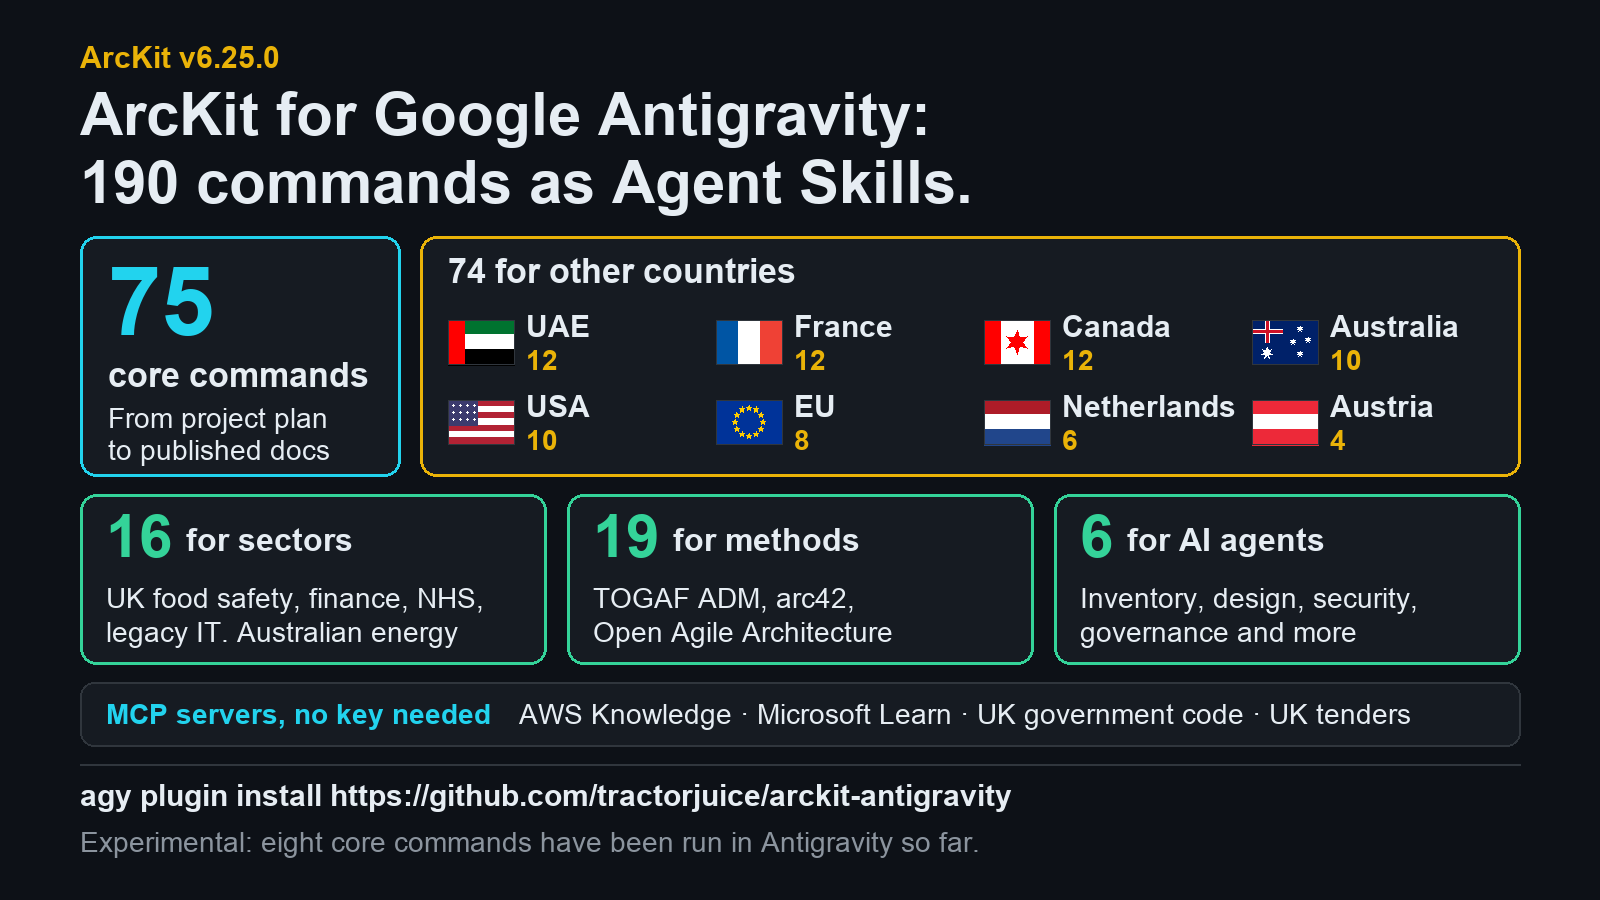
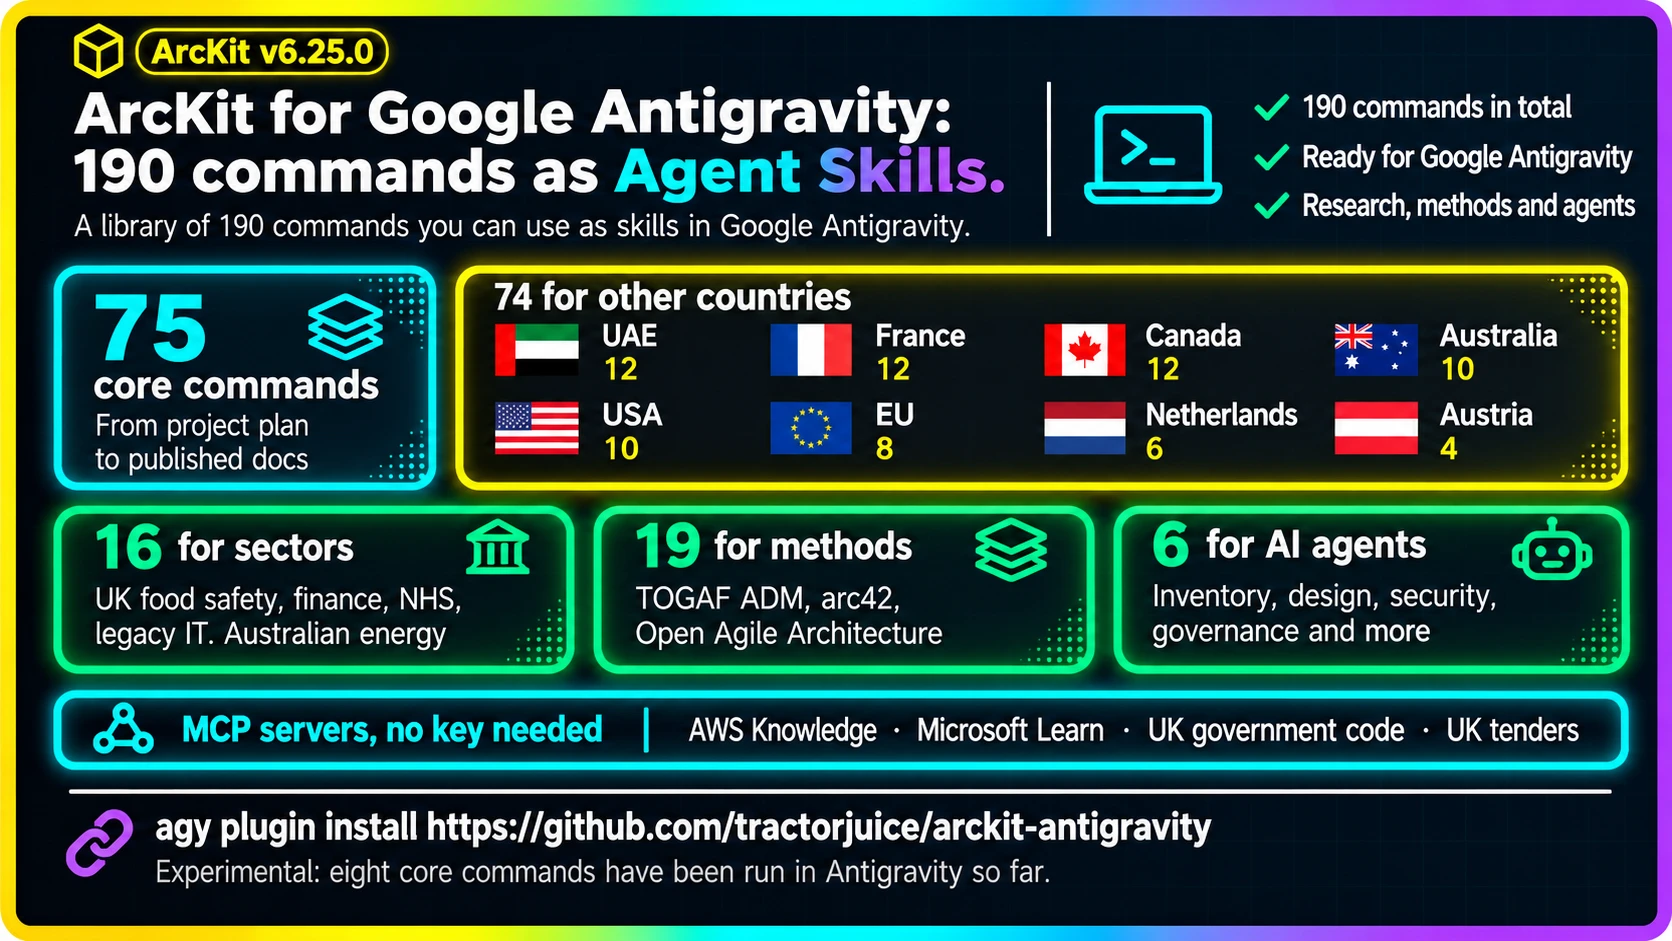
docs: the maintainer's styled hero for the 6.25.0 article
Replaces the plain generated hero with the maintainer's redesign of the
same layout, and brings the image description into line with it.

Claude-Session: https://claude.ai/code/session_01Hfsx56kefipenQbkB64qZ1

diff --git a/docs/share/2026-11-22-arckit-v6-25-google-antigravity-plugin-agent-skills.html b/docs/share/2026-11-22-arckit-v6-25-google-antigravity-plugin-agent-skills.html
@@ -23,7 +23,7 @@
     <meta property="og:url" content="https://arckit.org/share/2026-11-22-arckit-v6-25-google-antigravity-plugin-agent-skills.html">
     <meta property="og:site_name" content="ArcKit">
     <meta property="og:image" content="https://arckit.org/articles/2026-11-22-arckit-v6-25-google-antigravity-plugin-agent-skills-hero.png">
-    <meta property="og:image:alt" content="ArcKit for Google Antigravity: 190 commands as Agent Skills. ArcKit v6.25.0. 75 core commands; 74 for other countries (UAE 12, France 12, Canada 12, Australia 10, USA 10, EU 8, Netherlands 6, Austria 4); 16 for sectors; 19 for methods; 6 for AI agents. Four research MCP servers, no key needed: AWS Knowledge, Microsoft Learn, UK government code, UK tenders. Experimental: eight core commands have been run in Antigravity so far.">
+    <meta property="og:image:alt" content="ArcKit for Google Antigravity: 190 commands as Agent Skills. ArcKit v6.25.0. A library of 190 commands you can use as skills in Google Antigravity. 75 core commands; 74 for other countries (UAE 12, France 12, Canada 12, Australia 10, USA 10, EU 8, Netherlands 6, Austria 4); 16 for sectors; 19 for methods; 6 for AI agents. MCP servers, no key needed: AWS Knowledge, Microsoft Learn, UK government code, UK tenders. Experimental: eight core commands have been run in Antigravity so far.">
     <meta name="twitter:card" content="summary_large_image">
     <meta name="twitter:title" content="Google Antigravity Plugin for Enterprise Architecture: 190 Agent Skills in ArcKit v6.25.0">
     <meta name="twitter:description" content="A Google Antigravity plugin for enterprise architecture: ArcKit&#x27;s 190 governance commands as Agent Skills. Install with one line and type /arckit-start.">
@@ -294,7 +294,7 @@
     <main class="govuk-main-wrapper" id="main-content" role="main">
         <div class="govuk-width-container">
             <a href="../articles.html" class="govuk-back-link govuk-!-margin-bottom-6">Back to Articles</a>
-<img class="app-article-hero-img" src="../articles/2026-11-22-arckit-v6-25-google-antigravity-plugin-agent-skills-hero.png" alt="ArcKit for Google Antigravity: 190 commands as Agent Skills. ArcKit v6.25.0. 75 core commands; 74 for other countries (UAE 12, France 12, Canada 12, Australia 10, USA 10, EU 8, Netherlands 6, Austria 4); 16 for sectors; 19 for methods; 6 for AI agents. Four research MCP servers, no key needed: AWS Knowledge, Microsoft Learn, UK government code, UK tenders. Experimental: eight core commands have been run in Antigravity so far.">
+<img class="app-article-hero-img" src="../articles/2026-11-22-arckit-v6-25-google-antigravity-plugin-agent-skills-hero.png" alt="ArcKit for Google Antigravity: 190 commands as Agent Skills. ArcKit v6.25.0. A library of 190 commands you can use as skills in Google Antigravity. 75 core commands; 74 for other countries (UAE 12, France 12, Canada 12, Australia 10, USA 10, EU 8, Netherlands 6, Austria 4); 16 for sectors; 19 for methods; 6 for AI agents. MCP servers, no key needed: AWS Knowledge, Microsoft Learn, UK government code, UK tenders. Experimental: eight core commands have been run in Antigravity so far.">
 <div class="app-article-meta"><span class="app-article-meta__date">22 November 2026</span></div>
 <article id="content" class="app-markdown">
 <p><strong>Google Antigravity is Google's agentic development platform, and it runs Agent Skills that you call with a slash command. ArcKit v6.25.0 adds a Google Antigravity plugin that brings ArcKit's 190 architecture governance commands to it as Agent Skills: type <code>/arckit-requirements</code> and it drafts a requirements document from a template.</strong></p>

diff --git a/docs/articles.html b/docs/articles.html
@@ -336,7 +336,7 @@
                 <!-- 2026-11-22 Google Antigravity Plugin for Enterprise Architecture: 190 Agent Skills in ArcKit v6.25.0 -->
                 <article class="app-article-card">
                     <a class="app-article-card__media" href="share/2026-11-22-arckit-v6-25-google-antigravity-plugin-agent-skills.html">
-                        <img src="articles/2026-11-22-arckit-v6-25-google-antigravity-plugin-agent-skills-hero.png" alt="ArcKit for Google Antigravity: 190 commands as Agent Skills. ArcKit v6.25.0. 75 core commands; 74 for other countries (UAE 12, France 12, Canada 12, Australia 10, USA 10, EU 8, Netherlands 6, Austria 4); 16 for sectors; 19 for methods; 6 for AI agents. Four research MCP servers, no key needed: AWS Knowledge, Microsoft Learn, UK government code, UK tenders. Experimental: eight core commands have been run in Antigravity so far." loading="lazy">
+                        <img src="articles/2026-11-22-arckit-v6-25-google-antigravity-plugin-agent-skills-hero.png" alt="ArcKit for Google Antigravity: 190 commands as Agent Skills. ArcKit v6.25.0. A library of 190 commands you can use as skills in Google Antigravity. 75 core commands; 74 for other countries (UAE 12, France 12, Canada 12, Australia 10, USA 10, EU 8, Netherlands 6, Austria 4); 16 for sectors; 19 for methods; 6 for AI agents. MCP servers, no key needed: AWS Knowledge, Microsoft Learn, UK government code, UK tenders. Experimental: eight core commands have been run in Antigravity so far." loading="lazy">
                     </a>
                     <div class="app-article-card__body">
                         <div class="app-article-card__meta">

diff --git a/docs/index.html b/docs/index.html
@@ -889,7 +889,7 @@
             <div class="app-article-teaser-grid">
                 <article class="app-article-teaser">
                     <a class="app-article-teaser__media" href="share/2026-11-22-arckit-v6-25-google-antigravity-plugin-agent-skills.html">
-                        <img src="articles/2026-11-22-arckit-v6-25-google-antigravity-plugin-agent-skills-hero.png" alt="ArcKit for Google Antigravity: 190 commands as Agent Skills. ArcKit v6.25.0. 75 core commands; 74 for other countries (UAE 12, France 12, Canada 12, Australia 10, USA 10, EU 8, Netherlands 6, Austria 4); 16 for sectors; 19 for methods; 6 for AI agents. Four research MCP servers, no key needed: AWS Knowledge, Microsoft Learn, UK government code, UK tenders. Experimental: eight core commands have been run in Antigravity so far." loading="lazy">
+                        <img src="articles/2026-11-22-arckit-v6-25-google-antigravity-plugin-agent-skills-hero.png" alt="ArcKit for Google Antigravity: 190 commands as Agent Skills. ArcKit v6.25.0. A library of 190 commands you can use as skills in Google Antigravity. 75 core commands; 74 for other countries (UAE 12, France 12, Canada 12, Australia 10, USA 10, EU 8, Netherlands 6, Austria 4); 16 for sectors; 19 for methods; 6 for AI agents. MCP servers, no key needed: AWS Knowledge, Microsoft Learn, UK government code, UK tenders. Experimental: eight core commands have been run in Antigravity so far." loading="lazy">
                     </a>
                     <div class="app-article-teaser__body">
                         <div class="app-article-teaser__meta">

diff --git a/docs/articles/generate-hero-v6-25-google-antigravity-plugin.py b/docs/articles/generate-hero-v6-25-google-antigravity-plugin.py
@@ -14,6 +14,11 @@ start a new design without overwriting a hero the maintainer has restyled.
 The flags are drawn here as simple shapes, not loaded from image files, so the
 script needs nothing but Pillow. They are small pointers to a country, not
 accurate renderings.
+
+The published hero is a redesigned version of this layout, supplied by the
+maintainer on 22 November 2026, with a subtitle under the headline and three
+lines beside it: "190 commands in total", "Ready for Google Antigravity" and
+"Research, methods and agents".
 """
 
 import math
